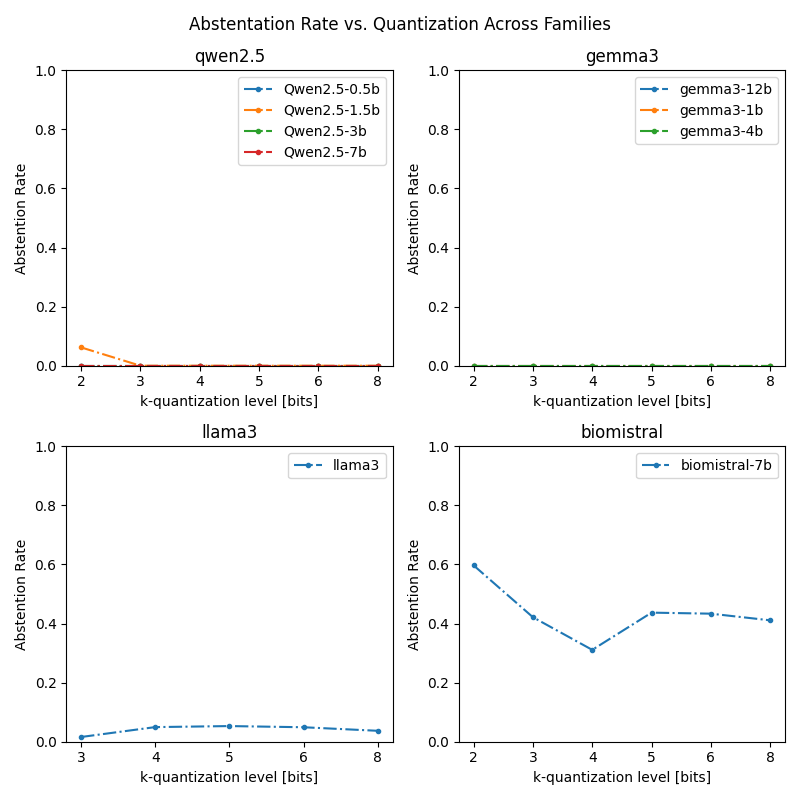
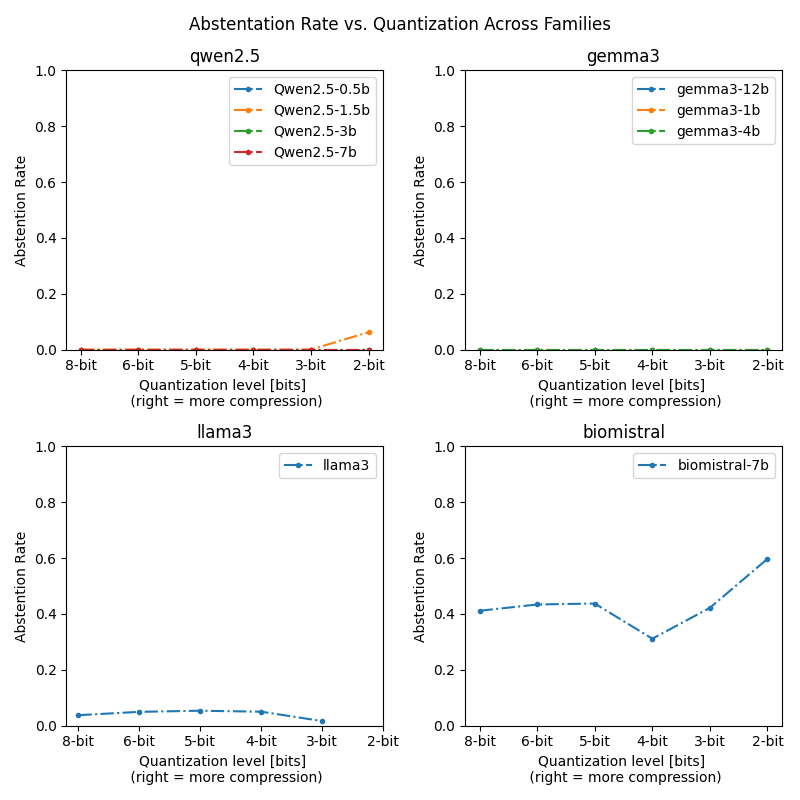
Reverse x-axis to show 8-bit to 2-bit quantization
This change reorders xticks so that the x-axis goes from 8-bit (less compression) to 2-bit (more compression), making it easier to visually interpret how model performance changes with increasing quantization.

diff --git a/analyze_results.py b/analyze_results.py
@@ -164,13 +164,24 @@ def get_family_to_metrics(metric: str | list[str,str] = 'accuracy', metric_type:
 
 # --- Create Plots [Still in the works 🚧] ---
 def plot_metric_for_family(family_name: str, metric_name:str, ax):
+    """
+    For the provided family_name (e.g., Qwen2.5) and metric_name (e.g., accuracy), generate a plot as follows:
+    x axis: goes from 8-bit to 2-bit quantization, so as a reader moves their eyes along the x-axis they see y-vals corresponding to a greater extent of quantization
+    y axis: [metric_name]
+    """
     family_to_metrics = get_family_to_metrics(metric_name)
     model_names = sorted(family_to_metrics[family_name].keys())
     for model in model_names:
         k_to_val = family_to_metrics[family_name][model]
-        ax.plot(sorted(k_to_val), [k_to_val[k] for k in sorted(k_to_val)], '.-.', label=model)
+        x_vals = ['8', '6', '5', '4', '3', '2']
+        y_vals = [k_to_val.get(k, None) for k in x_vals]
+        ax.plot(x_vals, y_vals, '.-.', label=model)
+        ax.set_xticks(x_vals)
+        ax.set_xticklabels([f'{k}-bit' for k in x_vals])
+        #sorted_k = sorted([int(k) for k in k_to_val.keys()])
+        #ax.plot(sorted_k[::-1], [k_to_val[str(k)] for k in sorted_k[::-1]], '.-.', label=model) # ax.plot(sorted(k_to_val), [k_to_val[k] for k in sorted(k_to_val)], '.-.', label=model)
     ax.set_title(f'{family_name}')
-    ax.set_xlabel('k-quantization level [bits]')
+    ax.set_xlabel('Quantization level [bits] \n (right = more compression)')  #ax.set_xlabel('k-quantization level [bits]')
     rename_model_metric = {'accuracy': 'Accuracy (%)',
                            'precision': 'Precision',
                            'recall': 'Recall',
@@ -185,9 +196,16 @@ def plot_system_metric_for_family(family_name: str, metric_name: list[str,str], 
     model_names = sorted(family_to_metrics[family_name].keys())
     for model in model_names:
         k_to_val = family_to_metrics[family_name][model]
-        ax.plot(sorted(k_to_val), [k_to_val[k] for k in sorted(k_to_val)], '.-.', label=model)
+        # plot x-axis from 8-bit to 2-bit quantization
+        x_vals = ['8', '6', '5', '4', '3', '2']
+        y_vals = [k_to_val.get(k, None) for k in x_vals]
+        ax.plot(x_vals, y_vals, '.-.', label=model)
+        ax.set_xticks(x_vals)
+        ax.set_xticklabels([f'{k}-bit' for k in x_vals])
+        #sorted_k = sorted([int(k) for k in k_to_val.keys()], reverse=True)
+        #ax.plot(sorted_k, [k_to_val[str(k)] for k in sorted_k], '.-.', label=model) # ax.plot(sorted(k_to_val), [k_to_val[k] for k in sorted(k_to_val)], '.-.', label=model)
     ax.set_title(f'{family_name}')
-    ax.set_xlabel('k-quantization level [bits]')
+    ax.set_xlabel('Quantization level [bits] \n (right = more compression)') #ax.set_xlabel('k-quantization level [bits]')
     rename_sys_metric = {'peak_mem_util': 'Peak memory utilization (%)',
                          'avg_load': 'Average GPU Load (%)',
                          'avg_latency': 'Avg. Latency (s)',
@@ -227,7 +245,7 @@ def create_all_families_comparison_plot(family_names: list[str], metric_name: st
     if metric_type == 'system':
         metric_name = metric_name[1]
     plt.suptitle(f'{rename_metric[metric_name]} vs. Quantization Across Families')
-    plt.tight_layout()
+    plt.tight_layout() #plt.subplots_adjust(wspace=0.3, hspace=0.3, right=0.95)
     plt.savefig(f'plots/kquant_vs_{metric_name}.png')
 
 # plot accuracy vs. peak gpu usage
